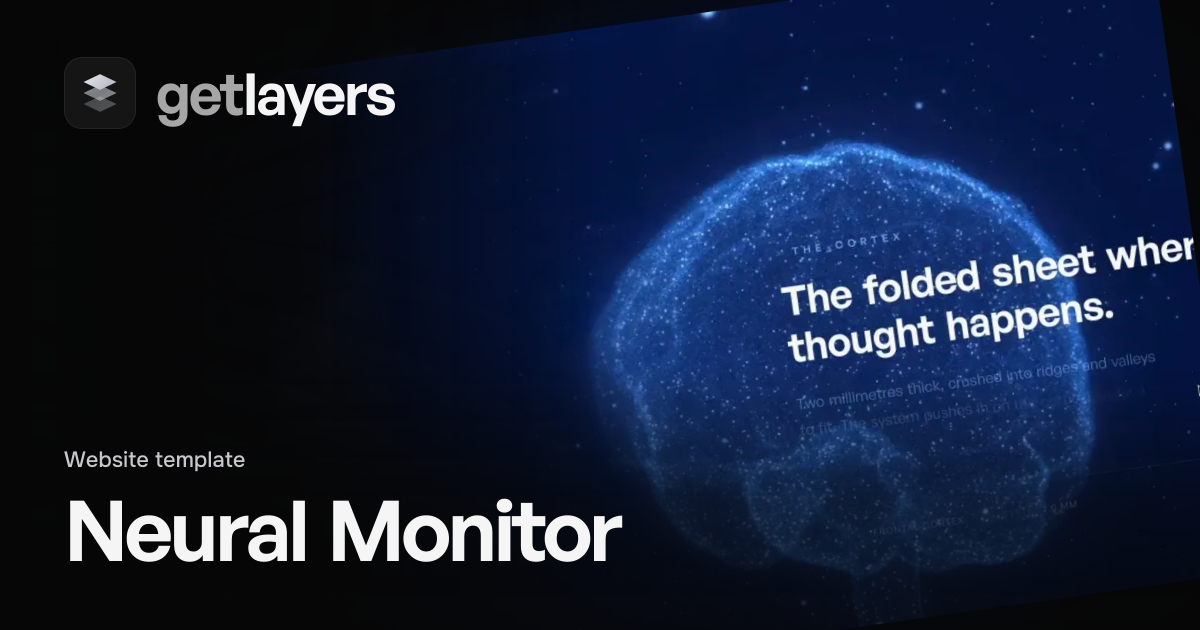
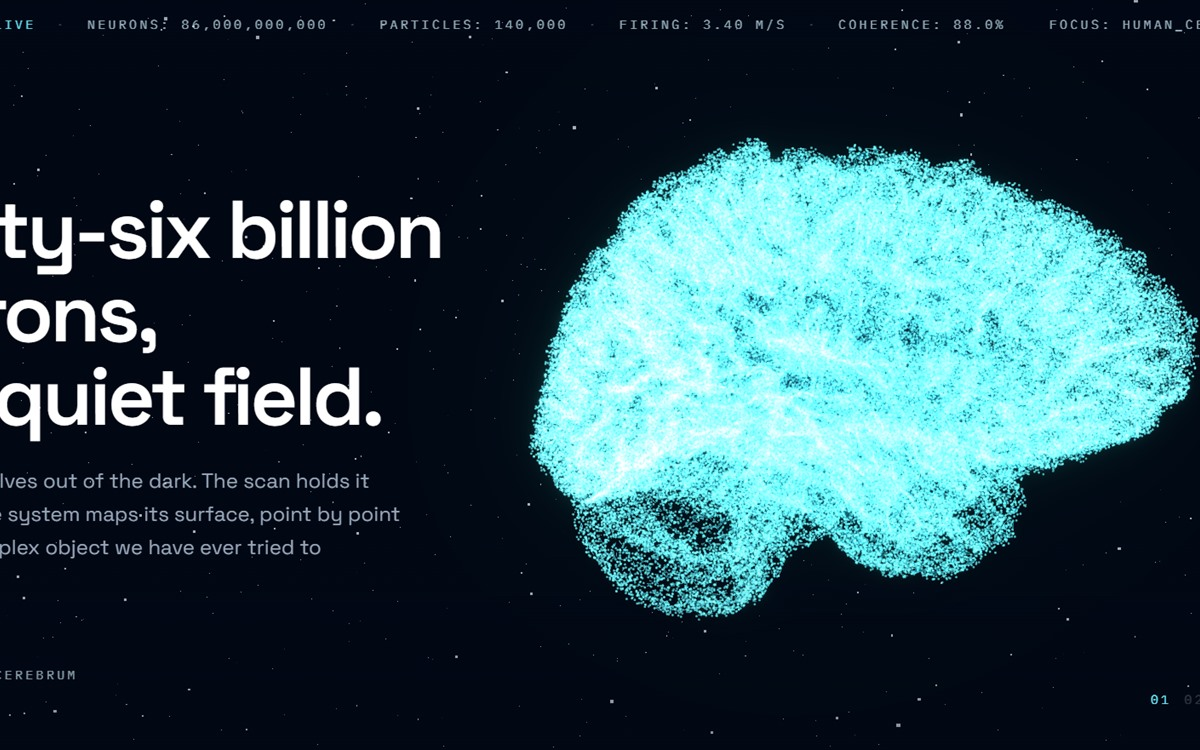
feat(projects): use live Gallery 8 screenshots for Neural Monitor

diff --git a/src/content/agencyProjects.ts b/src/content/agencyProjects.ts
@@ -30,6 +30,8 @@ export type AgencyProjectGalleryItem = {
   caption?: string;
   /** Editorial layout hint for detail gallery composition. */
   layout?: AgencyProjectGalleryLayout;
+  /** Optional real screenshot path (preferred over CSS concept frame). */
+  image?: string;
 };
 
 export type AgencyProject = {
@@ -573,7 +575,8 @@ export const AGENCY_PROJECTS: AgencyProject[] = [
     services: ["Website Development", "Interactive Web"],
     technologies: ["Next.js", "TypeScript", "Three.js", "React Three Fiber", "GSAP"],
     thumbnail: "/projects/neural-monitor.jpg",
-    thumbnailAlt: "Neural Monitor 3D neural experience preview",
+    thumbnailAlt:
+      "Neural Monitor live Arrival preview with luminous cyan point-cloud brain and HUD",
     heroImage: "/projects/neural-monitor.jpg",
     projectType: "Brand website",
     platform: "Web",
@@ -595,9 +598,24 @@ export const AGENCY_PROJECTS: AgencyProject[] = [
     ],
     outcome: "Published at the gallery deployment and linked from the portfolio.",
     gallery: [
-      { variant: 1, alt: "Neural Monitor 3D neural experience preview", layout: "full" },
-      { variant: 2, alt: "Neural Monitor scan pass across cortical folds", layout: "wide" },
-      { variant: 3, alt: "Neural Monitor constellation dispersal finale", layout: "default" },
+      {
+        variant: 1,
+        alt: "Neural Monitor Arrival — live preview with glowing cerebrum",
+        layout: "full",
+        image: "/projects/neural-monitor.jpg",
+      },
+      {
+        variant: 2,
+        alt: "Neural Monitor cortical scan chapter from live preview",
+        layout: "wide",
+        image: "/projects/neural-monitor-2.jpg",
+      },
+      {
+        variant: 3,
+        alt: "Neural Monitor constellation release from live preview",
+        layout: "default",
+        image: "/projects/neural-monitor-3.jpg",
+      },
     ],
   },
   {

diff --git a/src/components/projects/ProjectGallery.tsx b/src/components/projects/ProjectGallery.tsx
@@ -67,9 +67,9 @@ export default function ProjectGallery({ project }: ProjectGalleryProps) {
                 }}
               >
                 <div className="project-detail-gallery__frame">
-                  {project.thumbnail && item.variant === 1 ? (
+                  {item.image || (project.thumbnail && item.variant === 1) ? (
                     <img
-                      src={project.thumbnail}
+                      src={item.image || project.thumbnail}
                       alt=""
                       className="h-full w-full rounded-lg object-cover object-top"
                       loading="lazy"
